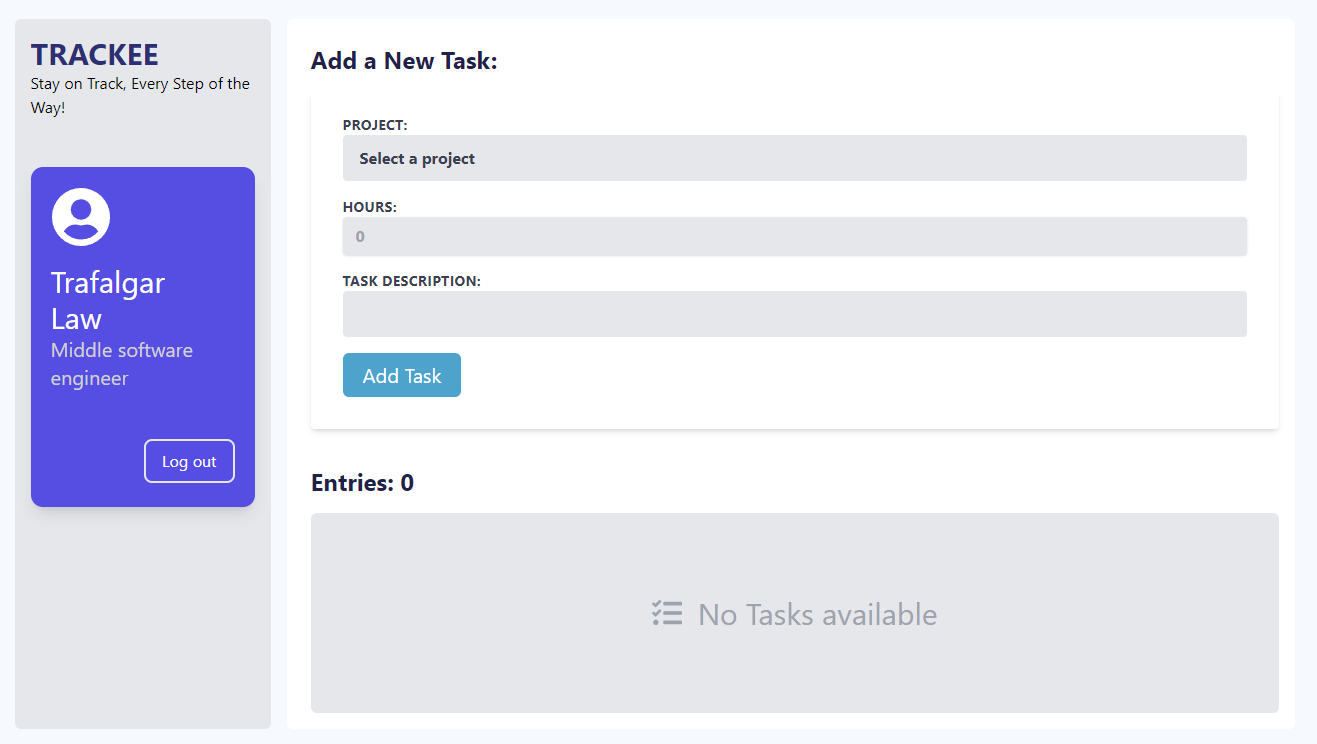
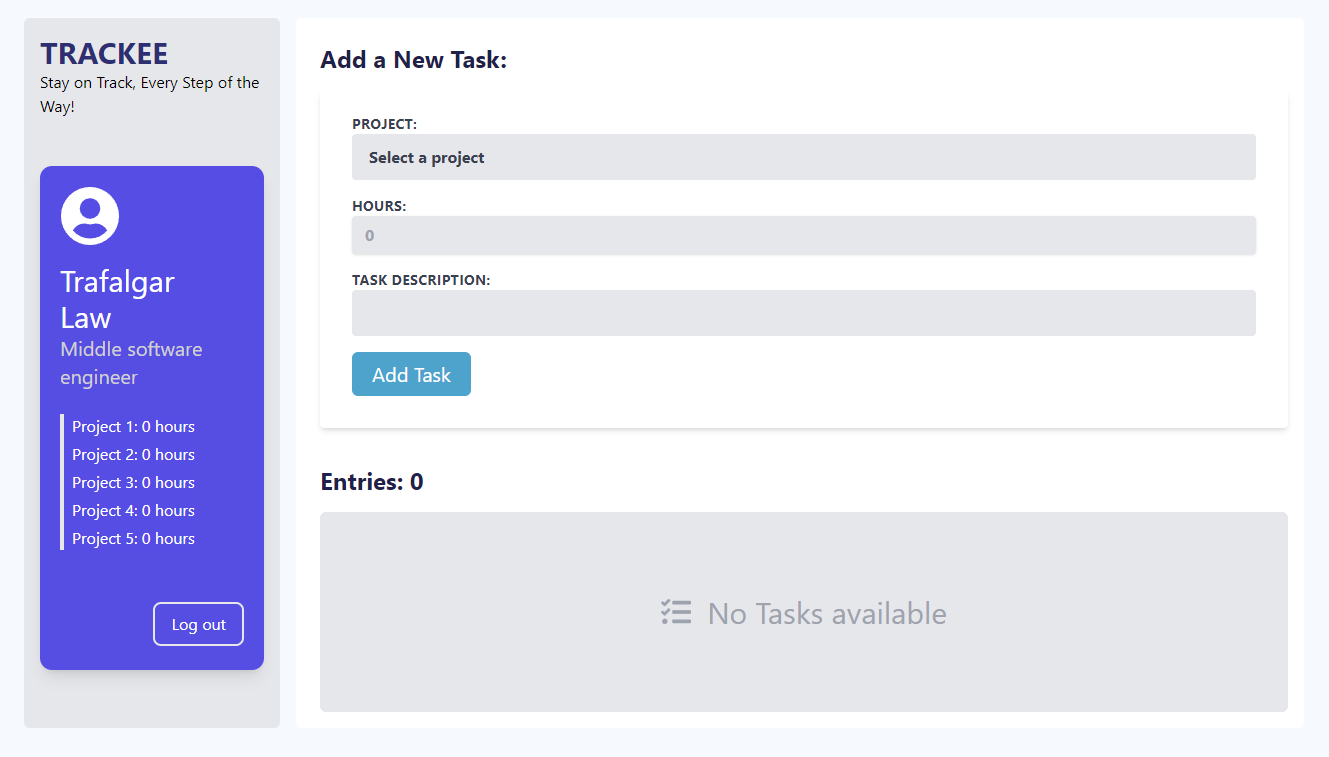
updated screenshot and details

diff --git a/src/components/Profile.jsx b/src/components/Profile.jsx
@@ -2,8 +2,9 @@ import { FaUserCircle } from 'react-icons/fa'
 import capitalize from '../utils/text'
 import { Link } from 'react-router-dom'
 
-const Profile = ({ user }) => {
+const Profile = ({ user, totalHours }) => {
   const { firstName, lastName, position, image } = user
+
   return (
     <div className='user-profile flex p-4 text-[#fff]'>
       <div className='flex flex-1 flex-wrap items-center gap-4 rounded-xl bg-[#5846E9] p-5 shadow-lg lg:flex-col lg:items-start  lg:pb-6'>
@@ -27,9 +28,23 @@ const Profile = ({ user }) => {
               {lastName ? capitalize(lastName) : 'Last name'}
             </p>
           </div>
-          <p className='text-xl text-[#d2d1d1]'>
+          <p className='mb-6 text-xl text-[#d2d1d1]'>
             {position ? capitalize(position) : 'Position'}
           </p>
+          {totalHours ? (
+            <div className='border-l-4 pl-2'>
+              {Object.keys(totalHours).map((projectName) => (
+                <div
+                  className='mb-1'
+                  key={projectName}
+                >
+                  {projectName}: {totalHours[projectName]} hours
+                </div>
+              ))}
+            </div>
+          ) : (
+            <div>No projects</div>
+          )}
           <div className='flex justify-end'>
             <Link
               className='decoration-none mt-12 rounded-lg border-2 px-4 py-2 hover:no-underline hover:opacity-70'

diff --git a/src/pages/Home.jsx b/src/pages/Home.jsx
@@ -1,8 +1,9 @@
 import { useState, useEffect } from 'react'
 import Profile from '../components/Profile'
 import TaskCard from '../components/TaskCard'
-import TaskForm from '../components/TaskForm'
+import TaskForm, { projects } from '../components/TaskForm'
 import EmptyTask from '../components/EmptyTask'
+import { calculateTotalHours } from '../utils/time'
 
 const Home = () => {
   const [user, setUser] = useState({})
@@ -133,6 +134,13 @@ const Home = () => {
 
   const sortedTasks = [...tasks].sort((a, b) => b.id - a.id)
 
+  // Calculation of total hours
+  const totalHours = {}
+  projects.forEach((projectId) => {
+    const total = calculateTotalHours(tasks, user.id, projectId)
+    totalHours[projectId] = total
+  })
+
   return (
     <div className='mt-12'>
       <div className='container mx-auto w-full'>
@@ -142,7 +150,10 @@ const Home = () => {
               <h1 className='text-3xl font-bold text-[#2d2d75]'>TRACKEE</h1>
               <p>Stay on Track, Every Step of the Way!</p>
             </div>
-            <Profile user={user} />
+            <Profile
+              user={user}
+              totalHours={totalHours}
+            />
           </div>
           <div className='w-full lg:w-4/5'>
             <div className='time-sheet rounded-md bg-white p-4 text-[#242424] lg:ml-4 lg:pl-6 lg:pr-4'>

diff --git a/src/utils/time.js b/src/utils/time.js
@@ -7,6 +7,21 @@ export const formatISOtoDate = () => {
   return formattedTime
 }
 
+// Calculate the hours of projects
+export const calculateTotalHours = (tasks, userId, projectId) => {
+  // Get only the projects for user
+  const userProjectTasks = tasks.filter(
+    (task) => task.user.id === userId && task.project === projectId
+  );
+  // Get total hours for each
+  const totalHours = userProjectTasks.reduce(
+    (total, task) => total + parseInt(task.hours, 10),
+    0
+  );
+
+  return totalHours;
+}
+
 // Formats seconds in HH:mm:ss format
 const formatTime = (timeInSeconds) => {
   const hours = Math.floor(timeInSeconds / 3600);

diff --git a/src/components/TaskForm.jsx b/src/components/TaskForm.jsx
@@ -1,7 +1,7 @@
 import React, { useState } from 'react'
 
 // Static list of projects
-const projects = [
+export const projects = [
   'Project 1',
   'Project 2',
   'Project 3',
